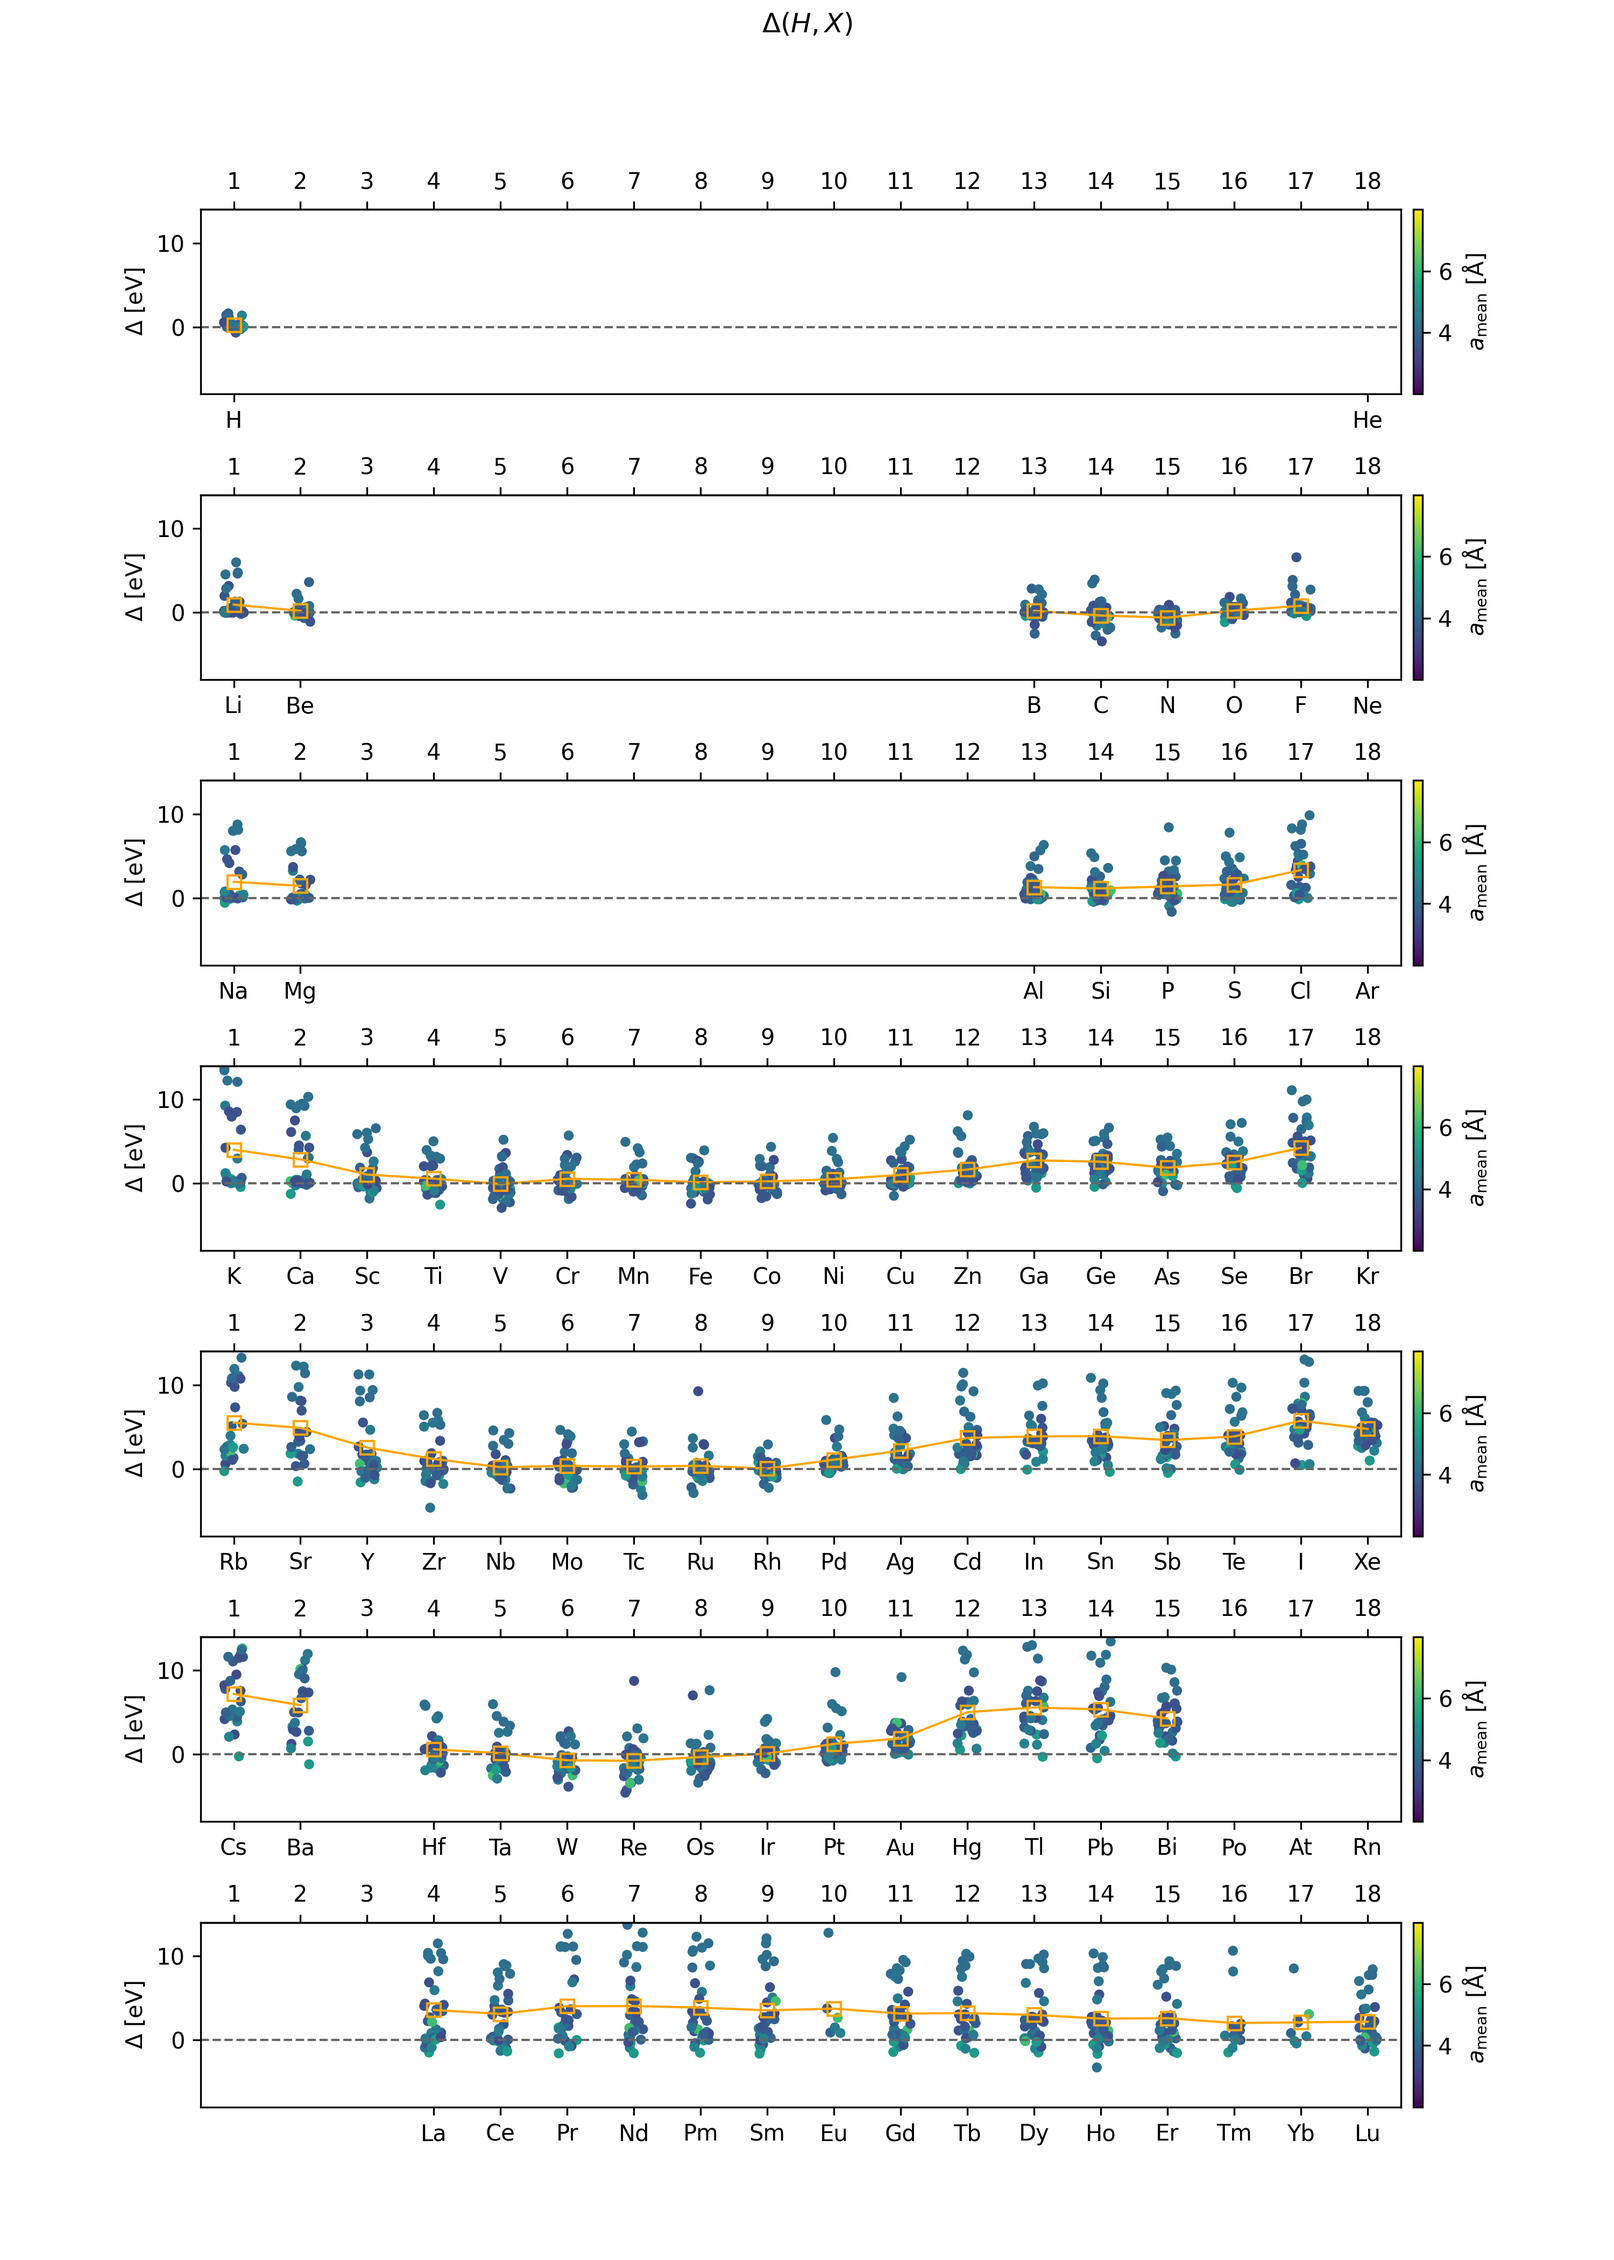
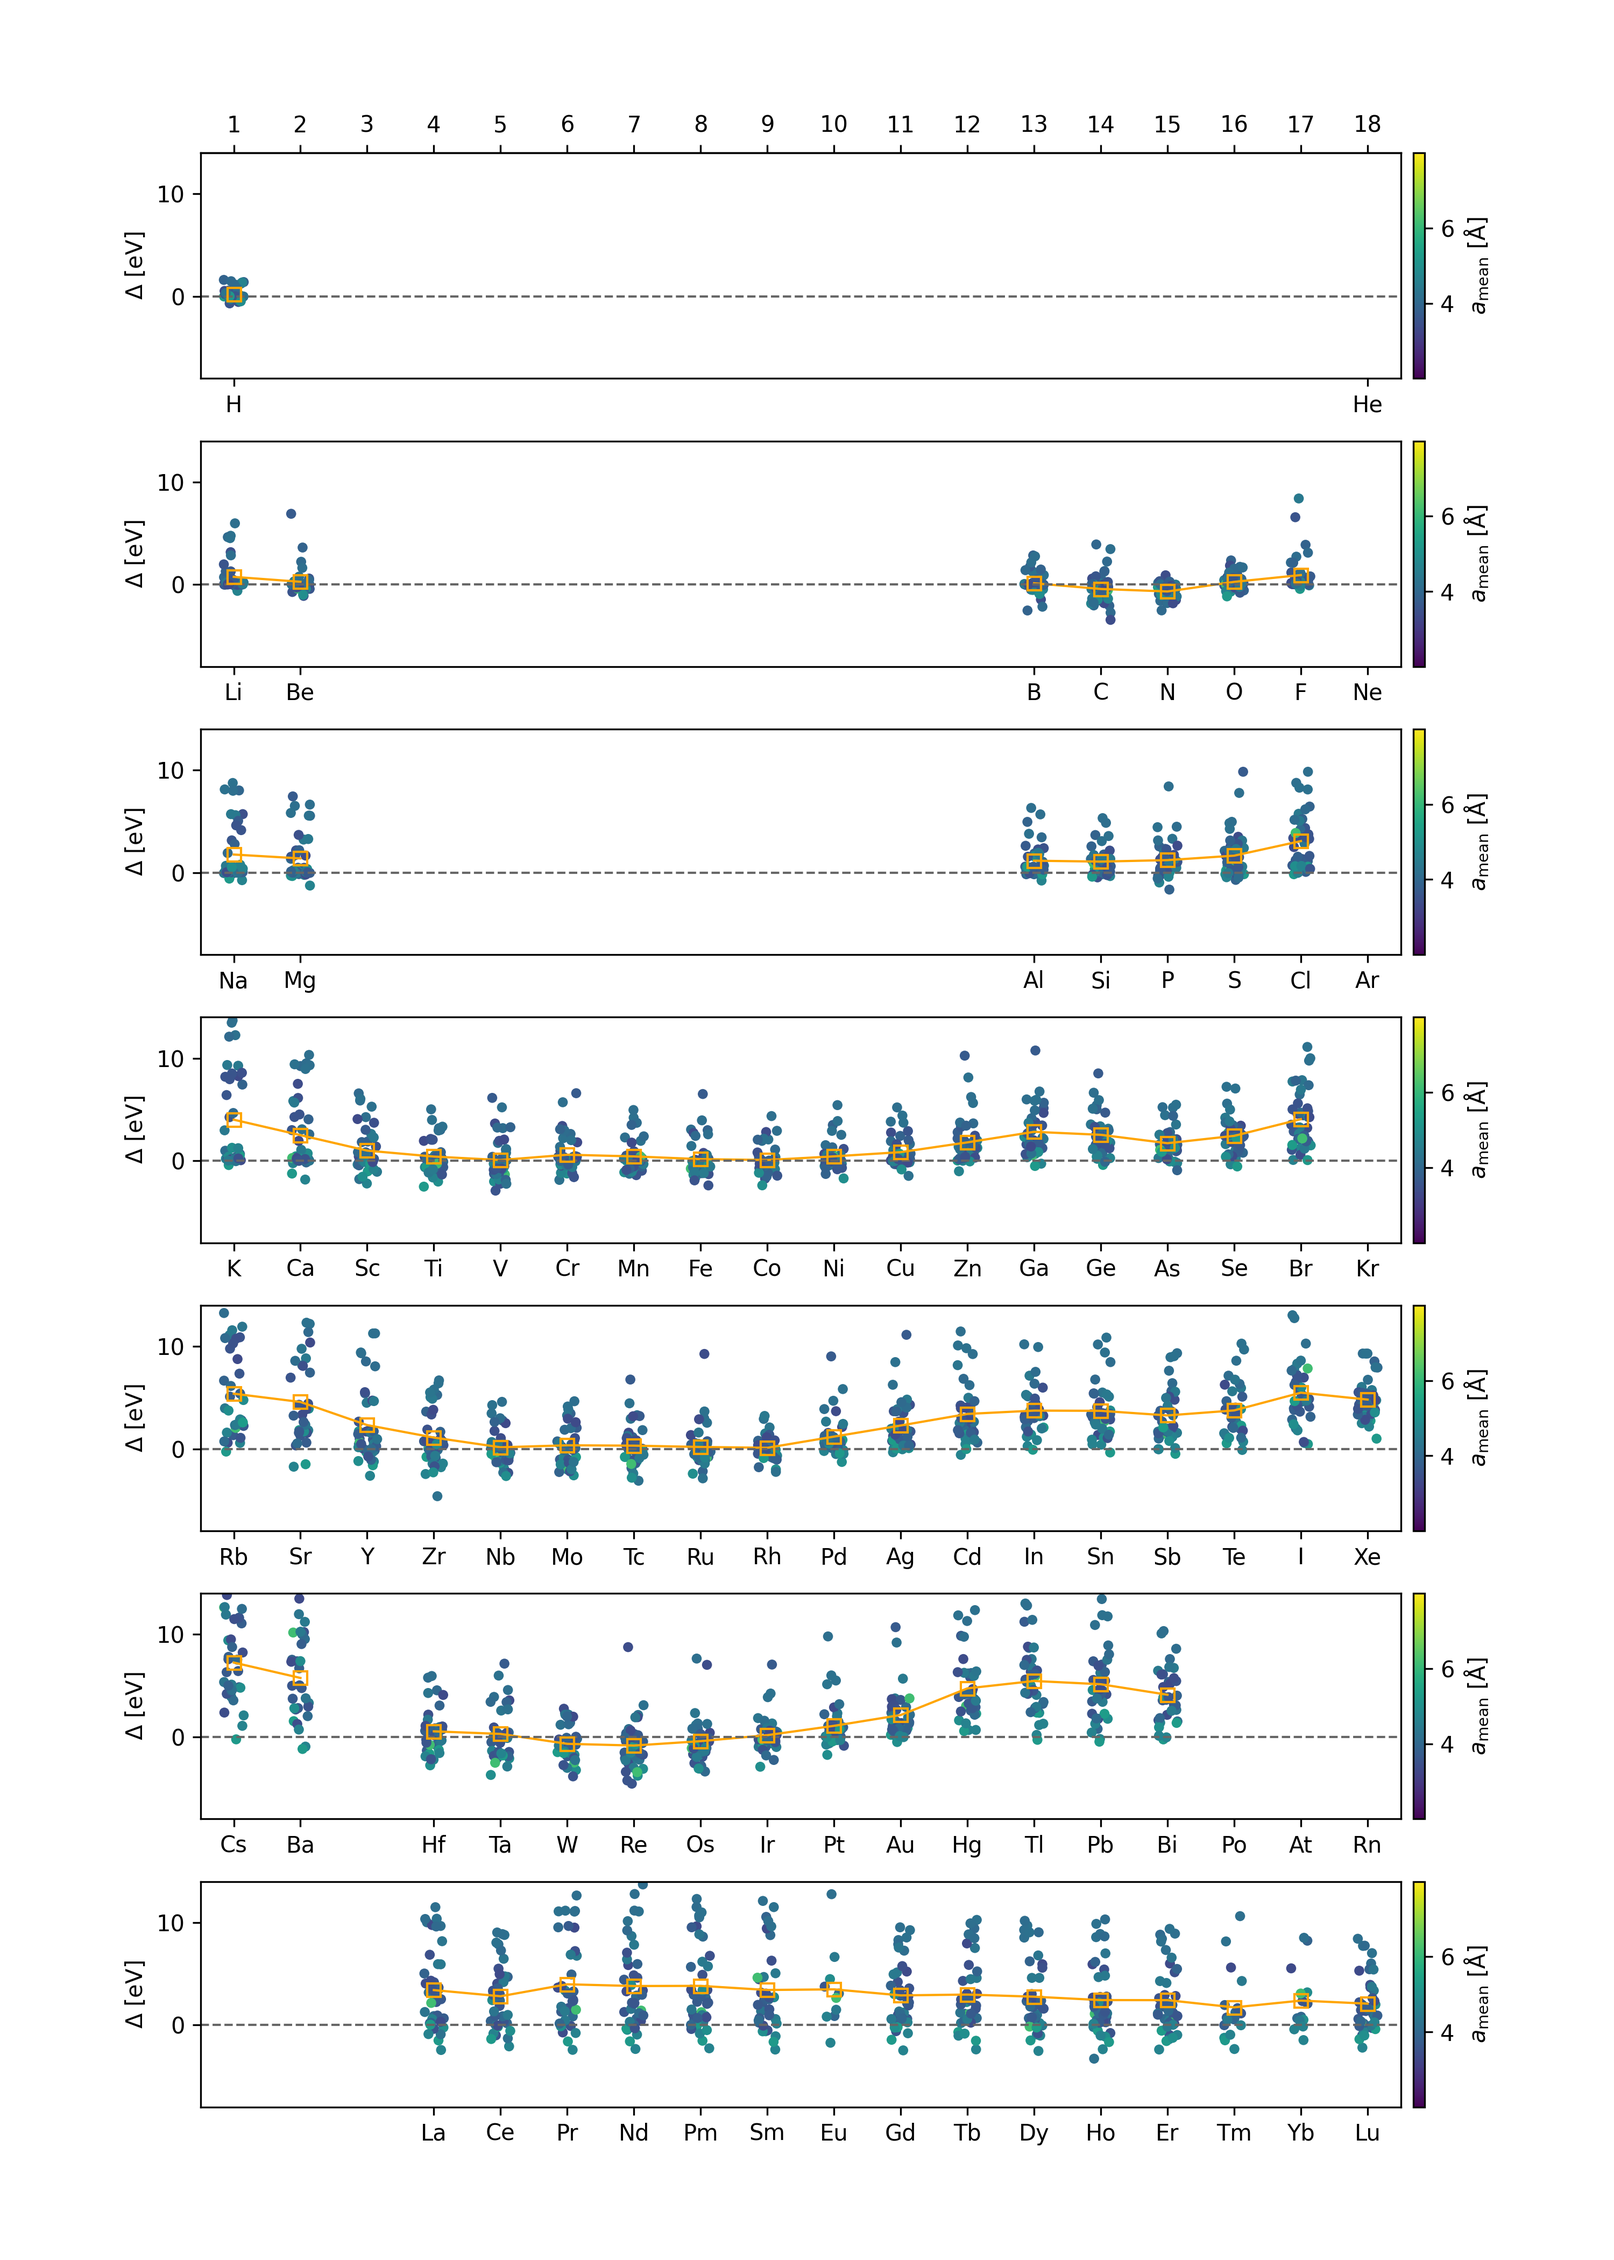
Changes done to run the last of the defect simulations, only to scripts used in HTP

diff --git a/DefectPlots/DeltaPlot.py b/DefectPlots/DeltaPlot.py
@@ -32,14 +32,17 @@ from ase.db import connect
 
 from httk.db.backend import Sqlite
 from httk.db.store import SqlStore
-from abad_classes import Delta  # your Delta class
+import sys
+sys.path.append("../SourceCode")
+
+from DBClasses import MDDelta, MDAbadParameters
+
 
 
 # ============================================================
 # CONFIG: paths to current databases
 # ============================================================
-DEFECTS_DB_PATH = "defects.sqlite"
-IMP2D_DB_PATH   = "imp2d.db"
+DEFECTS_DB_PATH = "../../2D_defects.sqlite"
 
 # ============================================================
 # 1. Periodic table groups and period panels (Fig. 3 layout)
@@ -107,93 +110,52 @@ def load_deltas_from_defects(defects_db=DEFECTS_DB_PATH):
     store = SqlStore(backend)
 
     search = store.searcher()
-    search_delta = search.variable(Delta)
-    search.output(search_delta, "delta")
+    search_delta = search.variable(MDDelta)
+    search_abad = search.variable(MDAbadParameters)
+    search.add(search_delta.key == search_abad.key)
+    search.output(search_delta, "MDDelta")
+    search.output(search_abad, "MDAbadParameters")
 
     dopants = []
     hosts = []
     delta_vals = []
+    lattice_const = []
 
-    for match in search:
-        delta_obj = match[0][0]
+    for match, header in search:
+        delta_obj = match[0]
+        abad_obj = match[1]
+
         dopants.append(delta_obj.dopant)
         hosts.append(delta_obj.host)
         delta_vals.append(float(delta_obj.delta))
+        lattice_const.append(float(abad_obj.lattice_constant))
 
-    return np.array(dopants), np.array(hosts), np.array(delta_vals, dtype=float)
-
-
-def compute_a_mean_from_row(row):
-    atoms = row.toatoms()
-    a_super, b_super, _ = atoms.get_cell().lengths()
-
-    L = row.get("repeat_x") or row.get("nx") or 3
-    M = row.get("repeat_y") or row.get("ny") or 3
-
-    a_prim = a_super / L
-    b_prim = b_super / M
-    return 0.5 * (a_prim + b_prim)
-
-
-def build_host_a_mean_map(imp2d_db=IMP2D_DB_PATH):
-    """
-    CURRENT IMPLEMENTATION:
-      a_mean(host) from supercell in imp2d.db.
-
-    LATER:
-      If you want to use your own a_mean, replace THIS to
-      return a dict: host_name -> a_mean.
-    """
-    db = connect(imp2d_db)
-    host_to_a_mean = {}
-
-    for row in db.select():
-        host = row.get("host")
-        if not host:
-            continue
-        if host in host_to_a_mean:
-            continue  # already set
-
-        try:
-            a_mean = compute_a_mean_from_row(row)
-        except Exception:
-            continue
-
-        host_to_a_mean[host] = float(a_mean)
-
-    return host_to_a_mean
+    return np.array(dopants), np.array(hosts), np.array(delta_vals, dtype=float), np.array(lattice_const, dtype=float)
 
 
 def prepare_delta_plot_data(
-    defects_db=DEFECTS_DB_PATH,
-    imp2d_db=IMP2D_DB_PATH
+    defects_db=DEFECTS_DB_PATH
 ):
     """
     Combine Δ(H,X) and a_mean(host) into arrays for plotting.
 
     CURRENT:
       - Δ from defects.sqlite
-      - a_mean from imp2d.db
     """
-    dopants_raw, hosts_raw, deltas_raw = load_deltas_from_defects(defects_db)
-    host_to_a_mean = build_host_a_mean_map(imp2d_db)
+    dopants_raw, hosts_raw, deltas_raw, lattice_raw = load_deltas_from_defects(defects_db)
 
     dopants = []
     deltas = []
     a_means = []
 
-    for d, h, val in zip(dopants_raw, hosts_raw, deltas_raw):
+    for d, h, val, a in zip(dopants_raw, hosts_raw, deltas_raw, lattice_raw):
         # element must be in GROUP_TABLE (we only plot those)
         if d not in GROUP_TABLE:
             continue
 
-        # host filtering (to match paper, if you want)
-        if HOST_WHITELIST is not None and h not in HOST_WHITELIST:
-            continue
-
-        a = host_to_a_mean.get(h)
         if a is None:
             continue
+        a /= 3
 
         dopants.append(d)
         deltas.append(val)
@@ -212,10 +174,9 @@ def prepare_delta_plot_data(
 
 def plot_by_period_panels_from_delta(
     filename="DeltaPlot.png",
-    defects_db=DEFECTS_DB_PATH,
-    imp2d_db=IMP2D_DB_PATH
+    defects_db=DEFECTS_DB_PATH
 ):
-    dopants, deltas, a_means = prepare_delta_plot_data(defects_db, imp2d_db)
+    dopants, deltas, a_means = prepare_delta_plot_data(defects_db)
 
     if deltas.size == 0:
         print("No Δ data found – check filters or DB paths.")
@@ -249,6 +210,7 @@ def plot_by_period_panels_from_delta(
     if n_panels == 1:
         axes = [axes]
 
+    top_axis = True
     for ax, panel in zip(axes, PERIOD_PANELS):
         panel_dopants_for_ticks = [d for d in panel if d in GROUP_TABLE]
         panel_dopants_with_data = [
@@ -348,8 +310,10 @@ def plot_by_period_panels_from_delta(
         ax.set_xticklabels(panel_dopants_for_ticks)
 
         # top: group numbers
-        top = ax.secondary_xaxis("top")
-        top.set_xticks(range(1, 19))
+        if top_axis:
+            top = ax.secondary_xaxis("top")
+            top.set_xticks(range(1, 19))
+            top_axis = False
 
         # Colorbar if there is data
         if sc is not None:
@@ -364,7 +328,6 @@ def plot_by_period_panels_from_delta(
         cbar.set_ticks([4, 6])
         cbar.set_ticklabels(["4", "6"])
 
-    fig.suptitle(r"$\Delta(H, X)$", y=0.995)
     plt.tight_layout(rect=[0.06, 0.04, 0.94, 0.96])
     plt.savefig(filename, dpi=300)
     # plt.show()
@@ -376,5 +339,4 @@ if __name__ == "__main__":
     plot_by_period_panels_from_delta(
         filename="Deltaplot.png",
         defects_db=DEFECTS_DB_PATH,
-        imp2d_db=IMP2D_DB_PATH,
     )

diff --git a/Scripts/cifRun.py b/Scripts/cifRun.py
@@ -1,13 +1,17 @@
 #!/usr/bin/env python
 import os
 import sys
+sys.path.append("../SourceCode")
 
 import httk
 import httk.db
 import httk.task
+import random
+import string
+
 from classes import DefectCell
 from abad_classes import AbadParameters
-from httk.atomistic import Structure
+from DBClasses import MDScreenResult
 
 
 def get_defect_cif(
@@ -31,7 +35,17 @@ def get_defect_cif(
     backend = httk.db.backend.Sqlite(db_path)
     store = httk.db.store.SqlStore(backend)
     search = store.searcher()
+    search_defect = search.variable(DefectCell)
+    search_screenresult = search.variable(MDScreenResult)
+    search.add(search_defect.key == search_screenresult.defect_key)
+    search.output(search_defect, "defect")
 
+    key_list = []
+    for match, header in search:
+        defect_cell = match[0]
+        key_list.append(defect_cell.key)
+
+    search = store.searcher()
     search_defect = search.variable(DefectCell)
     search_abad = search.variable(AbadParameters)
     host_name_pbe = host_name + "_PBE"
@@ -41,9 +55,13 @@ def get_defect_cif(
     search.output(search_defect, "defect")
     search.output(search_abad, "abad")
 
+
     for match, header in search:
         defect_cell = match[0]
         abad_parameters = match[1]
+
+        if defect_cell.key in key_list:
+            continue
 
         if defect_name is not None:
             if not defect_cell.defect_name.startswith(defect_name):
@@ -51,7 +69,8 @@ def get_defect_cif(
 
         struct = defect_cell.defect_structure
 
-        run_name = f"{host_name_pbe}_{defect_cell.defect_name}"
+        # Add a few random chars because some name duplicates exist in the ADAQ database
+        run_name = f"{defect_cell.host_name}_{defect_cell.defect_name}_{"".join(random.choices(string.ascii_lowercase + string.digits, k=3))}"
 
         dir_path = httk.task.create_batch_task(
             out_root,
@@ -74,7 +93,6 @@ def get_defect_cif(
         with open(key_file_path, "w", encoding="utf-8") as f:
             f.write(str(defect_cell.key))
 
-        
         httk.save(struct, full_path)
 
     backend.close()
@@ -82,11 +100,12 @@ def get_defect_cif(
 
 if __name__ == "__main__":
 
-    hosts = ["HfS2", "Hf2Te6", "H2Ge2", "Ge2", "Cr2I6", "CO2V2", "CO2Ti2", "CNb2O2",
-             "CMo2O2", "C3Nb4","C2H2", "BiITe", "Bi2I6", "As2"] #Check github for your assigned hosts
-    get_defect_cif(
-            host_name=defect_name,
-            db_path="../../defect/defects.sqlite",
-            out_root="../../MD_runs/Runs",
-            template_name="template",
-        )
+    hosts = ["Te4W2"] #Check github for your assigned hosts
+
+    for defect_name in hosts:
+        get_defect_cif(
+                host_name=defect_name,
+                db_path="../../2D_defects.sqlite",
+                out_root="../../MD_runs/Runs",
+                template_name="template",
+            )

diff --git a/SourceCode/CalculateDelta.py b/SourceCode/CalculateDelta.py
@@ -53,7 +53,7 @@ def getDopant(defect_name):
 
 INF = 10000000
 # Open SQLite database and create store/searcher interface
-backend = httk.db.backend.Sqlite('../../defects_result.sqlite')
+backend = httk.db.backend.Sqlite('../../2D_defects.sqlite')
 store = httk.db.store.SqlStore(backend)
 search = store.searcher()
 
@@ -146,8 +146,8 @@ for host in host_list:
 
         delta = interstital_lowest - adatom_lowest
 
-        print(
-            f"Delta for {host} - {dopant} : {delta} eV, with material {interstital_defect if delta < 0 else adatom_defect}.")
+        # print(
+        #     f"Delta for {host} - {dopant} : {delta} eV, with material {interstital_defect if delta < 0 else adatom_defect}.")
 
         store.save(MDDelta(
             host=host,

diff --git a/SourceCode/getRunResult.py b/SourceCode/getRunResult.py
@@ -8,7 +8,6 @@ import httk.db
 from ase.io import read
 from optimade.adapters.structures.ase import from_ase_atoms
 from optimade.models.structures import StructureResource
-from DataBase_scripts.export_MongoDB_to_json import export_MongoDB_to_json
 from datetime import datetime, timezone
 
 client = pymongo.MongoClient("mongodb://localhost:27017/")
@@ -84,5 +83,3 @@ for d in leaf_dirs:
 
 CommitAndClose(backend)
 result = collection.insert_many(optimade_list, ordered=False)
-
-#export_MongoDB_to_json()    # If we want to export the entire database to a JSON file right away. Not sure abt this tho.

diff --git a/SourceCode/DBClasses.py b/SourceCode/DBClasses.py
@@ -201,7 +201,7 @@ class MDAbadParameters(httk.HttkObject):
     The ``httk_typed_init`` schema in the decorator should include
     ``lattice_constant`` if it is intended to be stored in the database.
     """
-    @httk.httk_typed_init({'key': int, 'depth': float, 'expansion_factor': float, 'defect_index': int},
+    @httk.httk_typed_init({'key': int, 'depth': float, 'expansion_factor': float, 'defect_index': int, 'lattice_constant': float},
                           index = ["key"])
     def __init__(self, key, depth, expansion_factor, defect_index, lattice_constant):
         self.key = key
